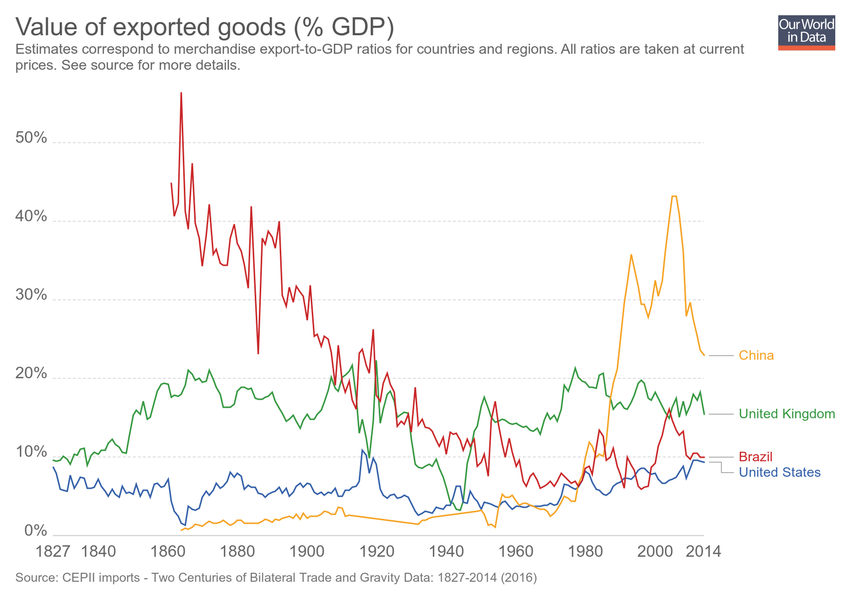
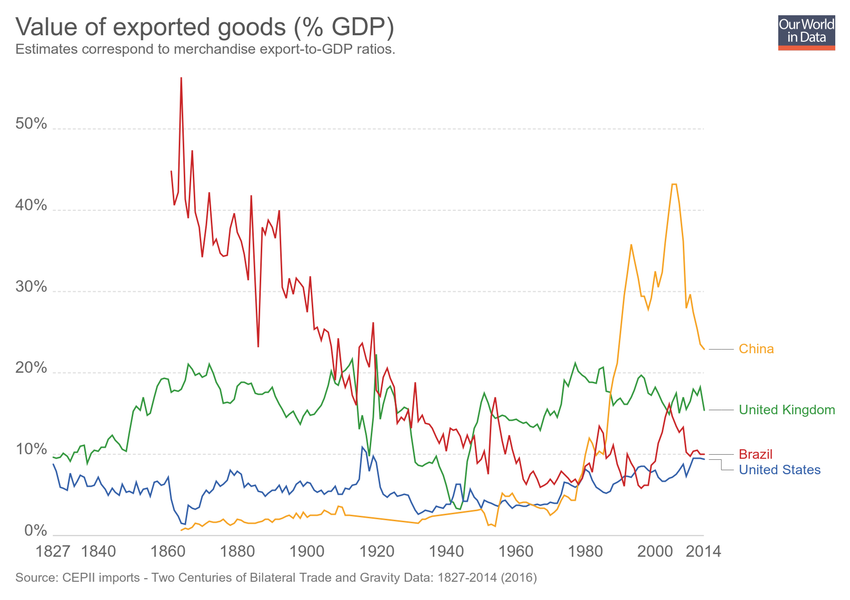
Updating chart merchandise-exports-gdp-cepii

diff --git a/grapher/merchandise-exports-gdp-cepii.html b/grapher/merchandise-exports-gdp-cepii.html
@@ -1,4 +1,4 @@
-<!doctype html><html><head><meta name="viewport" content="width=device-width, initial-scale=1" /><title>Value of exported goods (% GDP) - Our World in Data</title><meta name="description" content="Estimates correspond to merchandise export-to-GDP ratios for countries and regions. All ratios are taken at current prices. See source for more details." /><link rel="canonical" href="https://ourworldindata.org/grapher/merchandise-exports-gdp-cepii" /><meta property="fb:app_id" content="1149943818390250" /><meta property="og:url" content="https://ourworldindata.org/grapher/merchandise-exports-gdp-cepii" /><meta property="og:title" content="Value of exported goods (% GDP)" /><meta property="og:description" content="Estimates correspond to merchandise export-to-GDP ratios for countries and regions. All ratios are taken at current prices. See source for more details." /><meta property="og:image" content="https://ourworldindata.org/grapher/exports/merchandise-exports-gdp-cepii.png?v=15" /><meta property="og:image:width" content="850" /><meta property="og:image:height" content="600" /><meta property="og:site_name" content="Our World in Data" /><meta name="twitter:card" content="summary_large_image" /><meta name="twitter:site" content="@OurWorldInData" /><meta name="twitter:creator" content="@OurWorldInData" /><meta name="twitter:title" content="Value of exported goods (% GDP)" /><meta name="twitter:description" content="Estimates correspond to merchandise export-to-GDP ratios for countries and regions. All ratios are taken at current prices. See source for more details." /><meta name="twitter:image" content="https://ourworldindata.org/grapher/exports/merchandise-exports-gdp-cepii.png?v=15" /><style>
+<!doctype html><html><head><meta name="viewport" content="width=device-width, initial-scale=1" /><title>Value of exported goods (% GDP) - Our World in Data</title><meta name="description" content="Estimates correspond to merchandise export-to-GDP ratios." /><link rel="canonical" href="https://ourworldindata.org/grapher/merchandise-exports-gdp-cepii" /><meta property="fb:app_id" content="1149943818390250" /><meta property="og:url" content="https://ourworldindata.org/grapher/merchandise-exports-gdp-cepii" /><meta property="og:title" content="Value of exported goods (% GDP)" /><meta property="og:description" content="Estimates correspond to merchandise export-to-GDP ratios." /><meta property="og:image" content="https://ourworldindata.org/grapher/exports/merchandise-exports-gdp-cepii.png?v=16" /><meta property="og:image:width" content="850" /><meta property="og:image:height" content="600" /><meta property="og:site_name" content="Our World in Data" /><meta name="twitter:card" content="summary_large_image" /><meta name="twitter:site" content="@OurWorldInData" /><meta name="twitter:creator" content="@OurWorldInData" /><meta name="twitter:title" content="Value of exported goods (% GDP)" /><meta name="twitter:description" content="Estimates correspond to merchandise export-to-GDP ratios." /><meta name="twitter:image" content="https://ourworldindata.org/grapher/exports/merchandise-exports-gdp-cepii.png?v=16" /><style>
         html, body {
             height: 100%;
             margin: 0;
@@ -20,8 +20,8 @@
         }
     </style><noscript><style>
                     figure { display: none !important; }
-                </style></noscript><link rel="stylesheet" href="https://ourworldindata.org/grapher/assets/commons.bundle.521782e703f0fe72f108.css" /><link rel="preload" href="/grapher/data/variables/93834.json?v=15" as="fetch" crossorigin /></head><body class="singleChart"><figure data-grapher-src="/grapher/merchandise-exports-gdp-cepii"></figure><noscript id="fallback"><img src="/grapher/exports/merchandise-exports-gdp-cepii.svg" /><p>Interactive visualization requires JavaScript</p></noscript><script src="https://cdn.polyfill.io/v2/polyfill.min.js?features=es6,fetch"></script><script src="https://ourworldindata.org/grapher/assets/commons.bundle.521782e703f0fe72f108.js"></script><script src="https://ourworldindata.org/grapher/assets/charts.bundle.521782e703f0fe72f108.js"></script><script>
-        var jsonConfig = {"id":2843,"map":{"projection":"World","targetYear":2014,"variableId":93834,"timeTolerance":3,"baseColorScheme":"YlOrRd","colorSchemeLabels":[],"colorSchemeValues":[],"customNumericColors":[],"customCategoryColors":{},"customCategoryLabels":{},"customHiddenCategories":{}},"tab":"chart","slug":"merchandise-exports-gdp-cepii","type":"LineChart","title":"Value of exported goods (% GDP)","xAxis":{"scaleType":"linear"},"yAxis":{"min":0,"scaleType":"linear"},"version":15,"subtitle":"Estimates correspond to merchandise export-to-GDP ratios for countries and regions. All ratios are taken at current prices. See source for more details.","hasMapTab":true,"stackMode":"absolute","dimensions":[{"display":{},"property":"y","variableId":93834}],"hasChartTab":true,"isPublished":true,"selectedData":[{"index":0,"entityId":1},{"index":0,"entityId":13},{"index":0,"entityId":171},{"index":0,"entityId":37}]};
+                </style></noscript><link rel="stylesheet" href="https://ourworldindata.org/grapher/assets/commons.bundle.521782e703f0fe72f108.css" /><link rel="preload" href="/grapher/data/variables/93834.json?v=16" as="fetch" crossorigin /></head><body class="singleChart"><figure data-grapher-src="/grapher/merchandise-exports-gdp-cepii"></figure><noscript id="fallback"><img src="/grapher/exports/merchandise-exports-gdp-cepii.svg" /><p>Interactive visualization requires JavaScript</p></noscript><script src="https://cdn.polyfill.io/v2/polyfill.min.js?features=es6,fetch"></script><script src="https://ourworldindata.org/grapher/assets/commons.bundle.521782e703f0fe72f108.js"></script><script src="https://ourworldindata.org/grapher/assets/charts.bundle.521782e703f0fe72f108.js"></script><script>
+        var jsonConfig = {"id":2843,"map":{"projection":"World","targetYear":2014,"variableId":93834,"timeTolerance":3,"baseColorScheme":"YlOrRd","colorSchemeLabels":[],"colorSchemeValues":[],"customNumericColors":[],"customCategoryColors":{},"customCategoryLabels":{},"customHiddenCategories":{}},"tab":"chart","slug":"merchandise-exports-gdp-cepii","type":"LineChart","title":"Value of exported goods (% GDP)","xAxis":{"scaleType":"linear"},"yAxis":{"min":0,"scaleType":"linear"},"version":16,"subtitle":"Estimates correspond to merchandise export-to-GDP ratios.","hasMapTab":true,"stackMode":"absolute","dimensions":[{"display":{},"property":"y","variableId":93834}],"hasChartTab":true,"isPublished":true,"selectedData":[{"index":0,"entityId":1},{"index":0,"entityId":13},{"index":0,"entityId":171},{"index":0,"entityId":37}]};
         var figure = document.getElementsByTagName("figure")[0];
         try {
             window.App = {};
